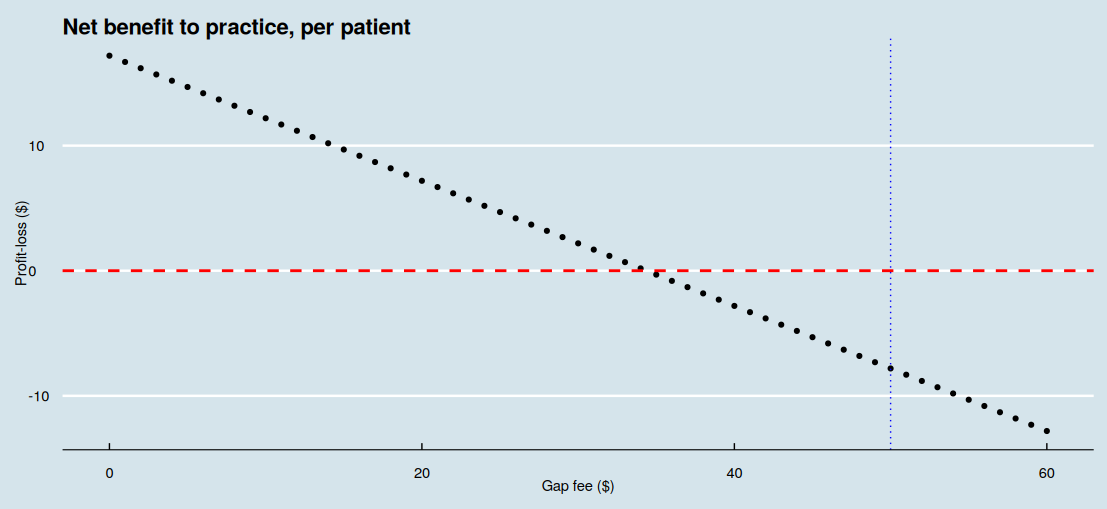
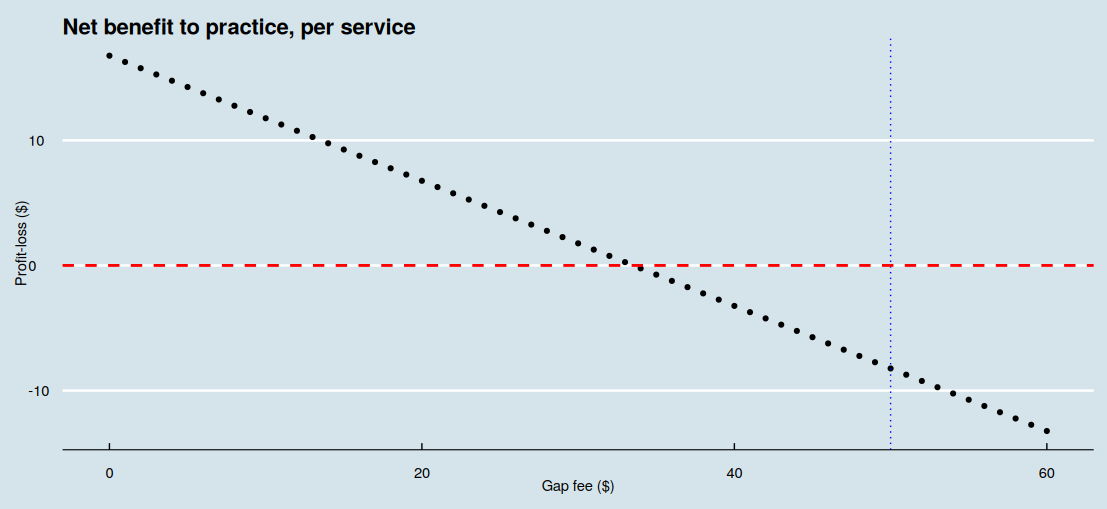
Universal Bulk Billing - new model
completed documentation. move examples to front of description.  improved overall consistency

diff --git a/content/post/UniversalBulkBilling2/index.md b/content/post/UniversalBulkBilling2/index.md
@@ -1,6 +1,9 @@
 ---
-title: Calculating the practice benefit of universal bulk-billing
-date: '2025-02-28'
+title: Calculating the practice benefit of universal bulk-billing - an updated model
+date: '2025-03-03'
+number-sections: true
+toc: true
+slug: UniversalBulkBilling-update
 format: hugo-md
 tags:
   - medicine
@@ -9,7 +12,7 @@ tags:
 engine: knitr
 summary: >-
   Does the proposed universal bulk-billing incentive make financial sense for
-  individual general practices?
+  individual general practices? - an updated model
 webr:
   show-starup-message: true
   cell-options:
@@ -321,7 +324,7 @@ globalThis.qwebrCustomizedWebROptions = {
 };
 
 // Store cell data
-globalThis.qwebrCellDetails = [{"code":"# Service fees for the most common fee-for-service consultation items\n# which attract a bulk-billing incentive\n\n# government-set price for service items B, C, D and E\n# Medicare items 23, 36, 44, and 123\n# in AUD (Australian dollars)\nservice_fees <- c(42.85, 82.90, 122.15, 197.90)\n\n# the proportion which each item is billed\n\n# raw figures are derived for calendar year 2024 Australia-wide\n# http://medicarestatistics.humanservices.gov.au/statistics/mbs_item.jsp\nservice_proportion_raw <- c(81240293, 19899953, 1609147, 174664)\n\n# calculate the proportions\n# for simplicity, assume the same proportions for bulk-billed patients\n# and privately-billed patients\nservice_proportion_bulk <- service_proportion_raw/sum(service_proportion_raw)\nservice_proportion_private <- service_proportion_bulk\n\n# display the proportions\nservice_proportion_bulk","id":1,"options":{"autorun":"false","classes":"","comment":"","context":"interactive","dpi":72,"editor-font-scale":"0.65","editor-max-height":"","editor-quick-suggestions":"false","editor-word-wrap":"true","fig-cap":"","fig-height":5,"fig-width":7,"label":"unnamed-chunk-1","message":"true","out-height":"","out-width":"700px","output":"true","read-only":"false","results":"markup","warning":"true"}},{"code":"# note, please 'run' the previous code block! \n\n# Set the gap fee for the individual service items B, C, D and E\n# for patients who were privately billed\n# for simplicity, set to the same fee of $50\ngap_fee <- c(50, 50, 50, 50)\n\n# the proportion of patients who are charge the gap fee\n# i.e. privately billed\n# set to 50%\nprivately_billed <- 0.5\n\n# the bulk billing incentive, in dollars\n# varies by location\n# Modified Monash areas 1, 2, 3+4, 5, 6, 7\n# items 75870, 75871, 75873, 75874, 75875, 75876\n# see https://www9.health.gov.au/mbs/search.cfm\nindividual_bulk_billing_incentive <-\n  c(21.35, 32.50, 34.50, 36.65, 38.70, 41.10)\n\n# set the Monash area to the city\nmonash_area <- 1\n\n# universal bulk billing incentive\n# over the service fee\n# set to 12.5%\nuniversal_bulk_billing_incentive <- 0.125\n\n# this code block shows no output","id":2,"options":{"autorun":"false","classes":"","comment":"","context":"interactive","dpi":72,"editor-font-scale":"0.65","editor-max-height":"","editor-quick-suggestions":"false","editor-word-wrap":"true","fig-cap":"","fig-height":5,"fig-width":7,"label":"unnamed-chunk-2","message":"true","out-height":"","out-width":"700px","output":"true","read-only":"false","results":"markup","warning":"true"}},{"code":"# note, depends on the previous code blocks already having been 'run'! \n\n# Benefit per 'average' patient charged service item B, C, D or E\n\nnet_benefit <- function(\n  # calculate the average net benefit revenue\n  # to the practice per patient\n  \n  # the variable names used in this function\n  # are the same as used in previous code chunks\n  # but will be 'local' to this function\n  service_fees,\n  service_proportion_bulk,\n  service_proportion_private,\n  gap_fee,\n  privately_billed,\n  individual_bulk_billing_incentive,\n  monash_area,\n  universal_bulk_billing_incentive) {\n  # first calculate the universal bulk-bill incentive\n  # for patients formerly privately-billed\n  privately_billed *\n    sum(service_fees * service_proportion_private) *\n    universal_bulk_billing_incentive +\n    # for patients bulk-billed\n    (1 - privately_billed) *\n    sum(service_fees * service_proportion_bulk) *\n    universal_bulk_billing_incentive +\n    \n    # calculate the individual service bulk-billing incentive applied\n    # to patients formerly privately-billed\n    privately_billed * individual_bulk_billing_incentive[monash_area] -\n    \n    # now calculate the loss\n    privately_billed *\n    sum(gap_fee * service_proportion_private)\n}\n\nprofit_loss <- net_benefit(\n  service_fees,\n  service_proportion_bulk,\n  service_proportion_private,\n  gap_fee,\n  privately_billed,\n  individual_bulk_billing_incentive,\n  monash_area,\n  universal_bulk_billing_incentive\n)\n\n# Show the value of average net_benefit\nformatC(profit_loss, digits = 2, format = \"f\")","id":3,"options":{"autorun":"false","classes":"","comment":"","context":"interactive","dpi":72,"editor-font-scale":"0.65","editor-max-height":"","editor-quick-suggestions":"false","editor-word-wrap":"true","fig-cap":"","fig-height":5,"fig-width":7,"label":"unnamed-chunk-3","message":"true","out-height":"","out-width":"700px","output":"true","read-only":"false","results":"markup","warning":"true"}},{"code":"# note, depends on the previous code blocks already having been 'run'! \n\n# Set the privately-billed proportion to 0.2 (20%), the gap fee to $35\n# and new service proportions\n\nnew_practice_service_raw <- \n  # new B, C, D, E numbers\n  # with much longer average consults\n  c(225, 255, 81, 6)\nnew_practice_service_proportions <- \n  new_practice_service_raw/sum(new_practice_service_raw)\n\nprofit_loss <- net_benefit(\n  service_fees,\n  service_proportion_bulk = new_practice_service_proportions,\n  service_proportion_private = new_practice_service_proportions,\n  # replace the gap fee for every possible service fee\n  # we could also use 'gap_fee = c(35, 35, 35, 35)'\n  gap_fee = rep(35, length(service_fees)),\n  # reduce the privately billed proportion to 20%\n  privately_billed = 0.2,\n  individual_bulk_billing_incentive,\n  monash_area,\n  universal_bulk_billing_incentive\n)\n\n# Show the value of average net_benefit\nformatC(profit_loss, digits = 2, format = \"f\")","id":4,"options":{"autorun":"false","classes":"","comment":"","context":"interactive","dpi":72,"editor-font-scale":"0.65","editor-max-height":"","editor-quick-suggestions":"false","editor-word-wrap":"true","fig-cap":"","fig-height":5,"fig-width":7,"label":"unnamed-chunk-4","message":"true","out-height":"","out-width":"700px","output":"true","read-only":"false","results":"markup","warning":"true"}},{"code":"# note, depends on the previous code blocks already having been 'run'! \n\n# This code chunk requires a few extra code packages\n# It will take a few seconds to make these packages available\ninstall.packages(\"tibble\", quiet = TRUE)\ninstall.packages(\"ggplot2\", quiet = TRUE)\ninstall.packages(\"ggthemes\", quiet = TRUE)\nlibrary(tibble)\nlibrary(ggplot2)\nlibrary(ggthemes)\n\n# gap fees from $0 to $60\ngap_fee_range <- seq(from = 0, to = 60, by = 1)\n\nprofit_loss <- sapply(\n  X = gap_fee_range,\n  function(x) {\n    net_benefit(\n      service_fees,\n      service_proportion_bulk,\n      service_proportion_private,\n      # set the gap fee to 'x'\n      gap_fee = rep(x, length(service_fees)),\n      privately_billed,\n      individual_bulk_billing_incentive,\n      monash_area,\n      universal_bulk_billing_incentive\n    )\n  }\n)\n\ngap_vs_profit <- tibble(\n  gap = gap_fee_range,\n  profit_loss = profit_loss\n)\n\nggplot(\n  data = gap_vs_profit, \n  mapping = aes(x = gap, y = profit_loss)\n  ) +\n  geom_point() +\n  labs(\n    x = \"Gap fee ($)\",\n    y = \"Profit-loss ($)\"\n  ) +\n  ggtitle(\"Net benefit to practice, per patient\") +\n  geom_vline(\n    # our current gap-fee\n    xintercept = gap_fee,\n    linetype = \"dotted\",\n    color = \"blue\"\n  ) +\n  geom_hline(\n    # zero profit-loss line\n    yintercept = 0,\n    linetype = \"dashed\",\n    color = \"red\",\n    linewidth = 1\n  ) +\n  theme_economist()","id":5,"options":{"autorun":"false","classes":"","comment":"","context":"interactive","dpi":72,"editor-font-scale":"0.65","editor-max-height":"","editor-quick-suggestions":"false","editor-word-wrap":"true","fig-cap":"","fig-height":5,"fig-width":7,"label":"unnamed-chunk-5","message":"true","out-height":"","out-width":"700px","output":"true","read-only":"false","results":"markup","warning":"true"}},{"code":"# note, depends on the previous code blocks already having been 'run'! \nlibrary(tibble)\nlibrary(ggplot2)\nlibrary(ggthemes)\n\n# privately billed range from 0 to 100%\nprivately_billed_range <- seq(from = 0, to = 100, by = 1)\n\n# set different service proportions\nnew_practice_service_raw <- \n  # new B, C, D, E numbers\n  # with much longer average consults\n  c(225, 255, 81, 6)\nnew_practice_service_proportions <- \n  new_practice_service_raw/sum(new_practice_service_raw)\n\nprofit_loss <- sapply(\n  X = privately_billed_range,\n  function(x) {\n    net_benefit(\n      service_fees,\n      # set service proportions to longer consults\n      service_proportion_bulk = new_practice_service_proportions,\n      service_proportion_private = new_practice_service_proportions,\n      # set the gap fee to $35\n      gap_fee = 35,\n      # set privately billed proportion to 'x'\n      # divide by 100 to convert from\n      # percentage to proportion\n      privately_billed = x/100,\n      individual_bulk_billing_incentive,\n      monash_area,\n      universal_bulk_billing_incentive\n    )\n  }\n)\n\ngap_vs_profit <- tibble(\n  gap = privately_billed_range,\n  profit_loss = profit_loss\n)\n\nggplot(\n  data = gap_vs_profit, \n  mapping = aes(x = gap, y = profit_loss)\n  ) +\n  geom_point() +\n  labs(\n    x = \"Privately-billed proportion (%)\",\n    y = \"Profit-loss ($)\"\n  ) +\n  ggtitle(\"Net benefit to practice, per patient\") +\n  geom_vline(\n    # our current proportion\n    xintercept = 20,\n    linetype = \"dotted\",\n    color = \"blue\"\n  ) +\n  geom_hline(\n    # zero profit-loss line\n    yintercept = 0,\n    linetype = \"dashed\",\n    color = \"red\",\n    linewidth = 1\n  ) +\n  theme_economist()","id":6,"options":{"autorun":"false","classes":"","comment":"","context":"interactive","dpi":72,"editor-font-scale":"0.65","editor-max-height":"","editor-quick-suggestions":"false","editor-word-wrap":"true","fig-cap":"","fig-height":5,"fig-width":7,"label":"unnamed-chunk-6","message":"true","out-height":"","out-width":"700px","output":"true","read-only":"false","results":"markup","warning":"true"}},{"code":"library(tibble)\n\n# just include service items B, C and D\nshort_service_list <- service_fees[1:3]\n\nnew_payments <- \n  tibble(\n    Current = num(\n      short_service_list,\n      digits = 2\n    ),\n    Metro = num(\n      short_service_list*(1+universal_bulk_billing_incentive)+\n        individual_bulk_billing_incentive[1],\n      digits = 2\n    ),\n    Regional = num(\n      short_service_list*(1+universal_bulk_billing_incentive)+\n        individual_bulk_billing_incentive[2],\n      digits = 2\n    ),\n    `Large Rural` = num(\n      short_service_list*(1+universal_bulk_billing_incentive)+\n        individual_bulk_billing_incentive[3],\n      digits = 2\n    ),\n    `Small Rural` = num(\n      short_service_list*(1+universal_bulk_billing_incentive)+\n        individual_bulk_billing_incentive[4],\n      digits = 2\n    ),\n    Remote = num(\n      short_service_list*(1+universal_bulk_billing_incentive)+\n        individual_bulk_billing_incentive[5],\n      digits = 2\n    ),\n  )\n\nnew_payments","id":7,"options":{"autorun":"false","classes":"","comment":"","context":"interactive","dpi":72,"editor-font-scale":"0.65","editor-max-height":"","editor-quick-suggestions":"false","editor-word-wrap":"true","fig-cap":"","fig-height":5,"fig-width":7,"label":"unnamed-chunk-7","message":"true","out-height":"","out-width":"700px","output":"true","read-only":"false","results":"markup","warning":"true"}}];
+globalThis.qwebrCellDetails = [{"code":"# Service fees for the most common fee-for-service consultation items\n# which attract a bulk-billing incentive\n\n# government-set price for service items A, B, C, D and E\n# Medicare items 3, 23, 36, 44, and 123\n# in AUD (Australian dollars)\nfee_names <- c(\"a\", \"b\", \"c\", \"d\", \"e\")\nservice_fees <- array(\n  data = c(19.6, 42.85, 82.90, 122.15, 197.9),\n  dim = c(length(fee_names), 1),\n  dimnames = list(fee_names, \"fee\")\n)\n\n# the proportion which each item is billed\n\n# raw figures are derived for calendar year 2024 Australia-wide\n# http://medicarestatistics.humanservices.gov.au/statistics/mbs_item.jsp\nservice_proportion_raw <- array(\n  data = c(4037130, 81240293, 19899953, 1609147, 174664),\n  dim = c(length(fee_names), 1),\n  dimnames = list(fee_names, \"n\")\n)\n\n# calculate the proportions\n# for simplicity, assume the same proportions for bulk-billed patients\n# and privately-billed patients\nservice_proportion_bulk <- service_proportion_raw/sum(service_proportion_raw)\ncolnames(service_proportion_bulk) <- c(\"proportion\")\nservice_proportion_private <- service_proportion_bulk\n\n# display the proportions\nservice_proportion_bulk","id":1,"options":{"autorun":"false","classes":"","comment":"","context":"interactive","dpi":72,"editor-font-scale":"0.65","editor-max-height":"","editor-quick-suggestions":"false","editor-word-wrap":"true","fig-cap":"","fig-height":5,"fig-width":7,"label":"unnamed-chunk-1","message":"true","out-height":"","out-width":"700px","output":"true","read-only":"false","results":"markup","warning":"true"}},{"code":"# note, please 'run' the previous code block! \n\n# Set the gap fee for the individual service items A, B, C, D and E\n# for patients who were privately billed\n# for simplicity, set to the same fee of $50\ngap_fee <- array(\n  data = rep(50, length(fee_names)),\n  dim = c(length(fee_names), 1),\n  dimnames = list(fee_names, \"gap\")\n)\n\n# the proportion of patients who are charge the gap fee\n# i.e. privately billed\n# set to 50%\nprivately_billed <-  0.5\n\n# the bulk billing incentive, in dollars\n# varies by location\n# Modified Monash areas 1, 2, 3+4, 5, 6, 7\n# we will index the above to 1, 2, 3, 4, 5 and 6 (merging areas 3+4)\n\n# see https://www9.health.gov.au/mbs/search.cfm\nn_monash <- 6 # six different Monash areas\n\nindividual_bulkbill_incentive <- array(\n  # there are two different individual bulk-billing incentive fees,\n  # 'standard' and 'triple'\n  data = c(\n    # standard bulk-billing incentive applies to service items like item A/'3'\n    # items 10990, 10991, 75855, 75856, 75857, 75858\n    c(7.15, 10.80, 11.45, 12.20, 12.85, 13.70),\n    # triple bulk-billing incentive applies to service items like item B, C and D\n    # items 75870, 75871, 75873, 75874, 75875, 75876\n    c(21.35, 32.50, 34.50, 36.65, 38.70, 41.10)\n  ),\n  dim = c(n_monash, 2),\n  dimnames = list(c(\"1\", \"2\", \"3+4\", \"5\", \"6\", \"7\"), c(\"single\", \"triple\"))\n)\n\n# does the single- or triple- incentive apply to the fee item?\nindividual_bulkbill_incentive_by_fee <- \n  c(\"single\", \"triple\", \"triple\", \"triple\", \"triple\")\n\n# set the Monash area to the city\nmonash_area <- \"1\"\n\n# universal bulk billing incentive\n# over the service fee\n# set to 12.5%\nuniversal_bulkbill_incentive <- 0.125\n\n# show individual bulk-bill incentive applicable to defined Monash area\nfee_bulkbill_incentive <- individual_bulkbill_incentive[monash_area, individual_bulkbill_incentive_by_fee]\n# redefine dimensions of the array\ndim(fee_bulkbill_incentive) <- c(length(fee_names), 1)\n# change rownames to the fee names\nrownames(fee_bulkbill_incentive) <- fee_names\nfee_bulkbill_incentive","id":2,"options":{"autorun":"false","classes":"","comment":"","context":"interactive","dpi":72,"editor-font-scale":"0.65","editor-max-height":"","editor-quick-suggestions":"false","editor-word-wrap":"true","fig-cap":"","fig-height":5,"fig-width":7,"label":"unnamed-chunk-2","message":"true","out-height":"","out-width":"700px","output":"true","read-only":"false","results":"markup","warning":"true"}},{"code":"# note, depends on the previous code blocks already having been 'run'! \n\n# Benefit per 'average' patient charged service item A, B, C, D or E\n\nnet_benefit <- function(\n  # calculate the average net benefit revenue\n  # to the practice per patient\n  \n  # the variable names used in this function\n  # are the same as used in previous code chunks\n  # but will be 'local' to this function\n  service_fees,\n  fee_names,\n  service_proportion_bulk,\n  service_proportion_private,\n  gap_fee,\n  privately_billed,\n  individual_bulkbill_incentive,\n  individual_bulkbill_incentive_by_fee,\n  monash_area,\n  universal_bulkbill_incentive) {\n  # calculate individual bulk-bill incentive applicable to defined Monash area\n  fee_bulkbill_incentive <- individual_bulkbill_incentive[monash_area, individual_bulkbill_incentive_by_fee]\n  # re-define dimensions of the 'x' array\n  dim(fee_bulkbill_incentive) <- c(length(fee_names), 1)\n  # change row name to the fee names\n  rownames(fee_bulkbill_incentive) <- fee_names\n  \n  # calculate the universal bulk-bill incentive\n  # for patients formerly privately-billed\n  privately_billed *\n    sum(service_fees * service_proportion_private) *\n    universal_bulkbill_incentive +\n    # calculate (and add) benefit for patients already bulk-billed\n    (1 - privately_billed) *\n    sum(service_fees * service_proportion_bulk) *\n    universal_bulkbill_incentive +\n    \n    # calculate (and add) the individual service bulk-billing incentive applied\n    # to patients formerly privately-billed\n    privately_billed * sum(service_proportion_private * fee_bulkbill_incentive) -\n    \n    # calculate (and subtract) the loss from not charging a private 'gap' fee\n    privately_billed * sum(service_proportion_private * gap_fee)\n}\n\nprofit_loss <- net_benefit(\n  service_fees,\n  fee_names,\n  service_proportion_bulk,\n  service_proportion_private,\n  gap_fee,\n  privately_billed,\n  individual_bulkbill_incentive,\n  individual_bulkbill_incentive_by_fee,\n  monash_area,\n  universal_bulkbill_incentive\n)\n\n# Show the value of average net_benefit\nformatC(profit_loss, digits = 2, format = \"f\")","id":3,"options":{"autorun":"false","classes":"","comment":"","context":"interactive","dpi":72,"editor-font-scale":"0.65","editor-max-height":"","editor-quick-suggestions":"false","editor-word-wrap":"true","fig-cap":"","fig-height":5,"fig-width":7,"label":"unnamed-chunk-3","message":"true","out-height":"","out-width":"700px","output":"true","read-only":"false","results":"markup","warning":"true"}},{"code":"# note, depends on the previous code blocks already having been 'run'! \n\n# Set the privately-billed proportion to 0.2 (20%), the gap fee to $35\n# and new service proportions\n\nnew_practice_service_raw <- \n  # new A, B, C, D, E numbers\n  # with much longer average consults\n  #  the consult time is progressively longer from A->B->C->D->E\n  c(950, 3956, 4171, 1146, 75)\nnew_practice_service_proportions <- \n  new_practice_service_raw/sum(new_practice_service_raw)\n\nprofit_loss <- net_benefit(\n  service_fees,\n  fee_names,\n  service_proportion_bulk = new_practice_service_proportions,\n  service_proportion_private = new_practice_service_proportions,\n  # replace the gap fee for every possible service fee\n  # we could also use 'gap_fee = c(35, 35, 35, 35)'\n  gap_fee = rep(35, length(fee_names)),\n  # reduce the privately billed proportion to 20%\n  privately_billed = 0.2,\n  individual_bulkbill_incentive,\n  individual_bulkbill_incentive_by_fee,\n  monash_area,\n  universal_bulkbill_incentive\n)\n\n# Show the value of average net_benefit\nformatC(profit_loss, digits = 2, format = \"f\")","id":4,"options":{"autorun":"false","classes":"","comment":"","context":"interactive","dpi":72,"editor-font-scale":"0.65","editor-max-height":"","editor-quick-suggestions":"false","editor-word-wrap":"true","fig-cap":"","fig-height":5,"fig-width":7,"label":"unnamed-chunk-4","message":"true","out-height":"","out-width":"700px","output":"true","read-only":"false","results":"markup","warning":"true"}},{"code":"# note, depends on the previous code blocks already having been 'run'! \n\n# this model is based on the second practice model described above\n# add new service fee descriptions\nnew_fee_names <- c(\n  fee_names,\n  # append items 721, 723 and 732\n  c(\"GPMP\", \"TCA\", \"CDM RV\")\n)\nnew_service_fees <- array(\n  # append fees for 721, 723 and 732\n  data = c(service_fees, 164.35, 130.25, 82.10),\n  dim = c(length(new_fee_names), 1),\n  dimnames = list(new_fee_names, \"fee\")\n)\nnew_gap_fee <- c(\n  rep(35, 5),\n  # no gap fees were charged for thes GPMP/TCA/GPMPRV items,\n  # even 'private' patients\n  rep(0, 3)\n)\nnew_individual_bulkbill_incentive_by_fee <- c(\n  individual_bulkbill_incentive_by_fee,\n  rep(\"single\", 3)\n)\n# Set the privately-billed proportion to 0.2 (20%), the gap fee to $35\n# and new service proportions\nnew_practice_service_raw <- \n  # new A, B, C, D, E numbers\n  # (long average consults)\n  # and GPMP/TCA/reviews\n  c(950, 3956, 4171, 1146, 75, 416, 402, 255)\nnew_practice_service_proportions <- \n  new_practice_service_raw/sum(new_practice_service_raw)\n\nprofit_loss <- net_benefit(\n  service_fees = new_service_fees,\n  fee_names = new_fee_names,\n  service_proportion_bulk = new_practice_service_proportions,\n  service_proportion_private = new_practice_service_proportions,\n  # replace the gap fee for every possible service fee\n  # we could also use 'gap_fee = c(35, 35, 35, 35)'\n  gap_fee = new_gap_fee,\n  # reduce the privately billed proportion to 20%\n  privately_billed = 0.2,\n  individual_bulkbill_incentive,\n  individual_bulkbill_incentive_by_fee = new_individual_bulkbill_incentive_by_fee,\n  monash_area,\n  universal_bulkbill_incentive\n)\n\n# Show the value of average net_benefit\nformatC(profit_loss, digits = 2, format = \"f\")","id":5,"options":{"autorun":"false","classes":"","comment":"","context":"interactive","dpi":72,"editor-font-scale":"0.65","editor-max-height":"","editor-quick-suggestions":"false","editor-word-wrap":"true","fig-cap":"","fig-height":5,"fig-width":7,"label":"unnamed-chunk-5","message":"true","out-height":"","out-width":"700px","output":"true","read-only":"false","results":"markup","warning":"true"}},{"code":"# note, depends on the previous code blocks already having been 'run'! \n\n# This code chunk requires a few extra code packages\n# It will take a few seconds to make these packages available\ninstall.packages(\"tibble\", quiet = TRUE)\ninstall.packages(\"ggplot2\", quiet = TRUE)\ninstall.packages(\"ggthemes\", quiet = TRUE)\nlibrary(tibble)\nlibrary(ggplot2)\nlibrary(ggthemes)\n\n# gap fees from $0 to $60\ngap_fee_range <- seq(from = 0, to = 60, by = 1)\n\nprofit_loss <- sapply(\n  X = gap_fee_range,\n  function(x) {\n    net_benefit(\n      service_fees,\n      fee_names,\n      service_proportion_bulk,\n      service_proportion_private,\n      # set the gap fee to 'x'\n      gap_fee = rep(x, length(fee_names)),\n      privately_billed,\n      individual_bulkbill_incentive,\n      individual_bulkbill_incentive_by_fee,\n      monash_area,\n      universal_bulkbill_incentive\n    )\n  }\n)\n\ngap_vs_profit <- tibble(\n  gap = gap_fee_range,\n  profit_loss = profit_loss\n)\n\nggplot(\n  data = gap_vs_profit, \n  mapping = aes(x = gap, y = profit_loss)\n  ) +\n  geom_point() +\n  labs(\n    x = \"Gap fee ($)\",\n    y = \"Profit-loss ($)\"\n  ) +\n  ggtitle(\"Net benefit to practice, per service\") +\n  geom_vline(\n    # our current gap-fee\n    xintercept = gap_fee,\n    linetype = \"dotted\",\n    color = \"blue\"\n  ) +\n  geom_hline(\n    # zero profit-loss line\n    yintercept = 0,\n    linetype = \"dashed\",\n    color = \"red\",\n    linewidth = 1\n  ) +\n  theme_economist()","id":6,"options":{"autorun":"false","classes":"","comment":"","context":"interactive","dpi":72,"editor-font-scale":"0.65","editor-max-height":"","editor-quick-suggestions":"false","editor-word-wrap":"true","fig-cap":"","fig-height":5,"fig-width":7,"label":"unnamed-chunk-6","message":"true","out-height":"","out-width":"700px","output":"true","read-only":"false","results":"markup","warning":"true"}},{"code":"# note, depends on the previous code blocks already having been 'run'! \nlibrary(tibble)\nlibrary(ggplot2)\nlibrary(ggthemes)\n\n# privately billed range from 0 to 100%\nprivately_billed_range <- seq(from = 0, to = 100, by = 1)\n\n# this model is based on the second practice model described above\n# together with care plan item numbers\n# add new service fee descriptions\nnew_fee_names <- c(\n  fee_names,\n  # append items 721, 723 and 732\n  c(\"GPMP\", \"TCA\", \"CDM RV\")\n)\nnew_service_fees <- array(\n  # append fees for 721, 723 and 732\n  data = c(service_fees, 164.35, 130.25, 82.10),\n  dim = c(length(new_fee_names), 1),\n  dimnames = list(new_fee_names, \"fee\")\n)\nnew_gap_fee <- c(\n  rep(35, 5),\n  # no gap fees were charged for thes GPMP/TCA/GPMPRV items,\n  # even 'private' patients\n  rep(0, 3)\n)\nnew_individual_bulkbill_incentive_by_fee <- c(\n  individual_bulkbill_incentive_by_fee,\n  rep(\"single\", 3)\n)\n# Set the privately-billed proportion to 0.2 (20%), the gap fee to $35\n# and new service proportions\nnew_practice_service_raw <- \n  # new A, B, C, D, E numbers\n  # (long average consults)\n  # and GPMP/TCA/reviews\n  c(950, 3956, 4171, 1146, 75, 416, 402, 255)\nnew_practice_service_proportions <- \n  new_practice_service_raw/sum(new_practice_service_raw)\n\nprofit_loss <- sapply(\n  X = privately_billed_range,\n  function(x) {\n    net_benefit(\n      service_fees = new_service_fees,\n      fee_names = new_fee_names,\n      # set service proportions to longer consults\n      service_proportion_bulk = new_practice_service_proportions,\n      service_proportion_private = new_practice_service_proportions,\n      # set the gap fee to $35\n      gap_fee = new_gap_fee,\n      # set privately billed proportion to 'x'\n      # divide by 100 to convert from\n      # percentage to proportion\n      privately_billed = x/100,\n      individual_bulkbill_incentive,\n      individual_bulkbill_incentive_by_fee = new_individual_bulkbill_incentive_by_fee,\n      monash_area,\n      universal_bulkbill_incentive\n    )\n  }\n)\n\ngap_vs_profit <- tibble(\n  gap = privately_billed_range,\n  profit_loss = profit_loss\n)\n\nggplot(\n  data = gap_vs_profit, \n  mapping = aes(x = gap, y = profit_loss)\n  ) +\n  geom_point() +\n  labs(\n    x = \"Privately-billed proportion (%)\",\n    y = \"Profit-loss ($)\"\n  ) +\n  ggtitle(\"Net benefit to practice, per service\") +\n  geom_vline(\n    # our current proportion\n    xintercept = 20,\n    linetype = \"dotted\",\n    color = \"blue\"\n  ) +\n  geom_hline(\n    # zero profit-loss line\n    yintercept = 0,\n    linetype = \"dashed\",\n    color = \"red\",\n    linewidth = 1\n  ) +\n  theme_economist()","id":7,"options":{"autorun":"false","classes":"","comment":"","context":"interactive","dpi":72,"editor-font-scale":"0.65","editor-max-height":"","editor-quick-suggestions":"false","editor-word-wrap":"true","fig-cap":"","fig-height":5,"fig-width":7,"label":"unnamed-chunk-7","message":"true","out-height":"","out-width":"700px","output":"true","read-only":"false","results":"markup","warning":"true"}},{"code":"library(tibble)\n\n# just include service items B, C and D\nshort_service_list <- service_fees[c(\"b\", \"c\", \"d\"),]\n\nnew_payments <- \n  tibble(\n    Current = num(\n      short_service_list,\n      digits = 2\n    ),\n    Metro = num(\n      short_service_list*(1+universal_bulkbill_incentive)+\n        individual_bulkbill_incentive[1, 2],\n      digits = 2\n    ),\n    Regional = num(\n      short_service_list*(1+universal_bulkbill_incentive)+\n        individual_bulkbill_incentive[2, 2],\n      digits = 2\n    ),\n    `Large Rural` = num(\n      short_service_list*(1+universal_bulkbill_incentive)+\n        individual_bulkbill_incentive[3, 2],\n      digits = 2\n    ),\n    `Small Rural` = num(\n      short_service_list*(1+universal_bulkbill_incentive)+\n        individual_bulkbill_incentive[4, 2],\n      digits = 2\n    ),\n    Remote = num(\n      short_service_list*(1+universal_bulkbill_incentive)+\n        individual_bulkbill_incentive[5, 2],\n      digits = 2\n    ),\n  )\n\nnew_payments","id":8,"options":{"autorun":"false","classes":"","comment":"","context":"interactive","dpi":72,"editor-font-scale":"0.65","editor-max-height":"","editor-quick-suggestions":"false","editor-word-wrap":"true","fig-cap":"","fig-height":5,"fig-width":7,"label":"unnamed-chunk-8","message":"true","out-height":"","out-width":"700px","output":"true","read-only":"false","results":"markup","warning":"true"}}];
 
 </script>
 
@@ -1867,6 +1870,20 @@ globalThis.qwebrCreateMonacoEditorInstance = function (cellData) {
 }
 </script>
 
+-   [<span class="toc-section-number">1</span> Universal bulk-billing incentive](#universal-bulk-billing-incentive)
+-   [<span class="toc-section-number">2</span> Will the proposed universal bulk-billing incentives be financially worthwhile for general practices?](#will-the-proposed-universal-bulk-billing-incentives-be-financially-worthwhile-for-general-practices)
+    -   [<span class="toc-section-number">2.1</span> Practice 1, limited item number inclusion](#practice-1-limited-item-number-inclusion)
+    -   [<span class="toc-section-number">2.2</span> Practice 2, low gap-fee, care-plan item numbers included](#practice-2-low-gap-fee-care-plan-item-numbers-included)
+-   [<span class="toc-section-number">3</span> Modelling the benefits to individual practices](#modelling-the-benefits-to-individual-practices)
+    -   [<span class="toc-section-number">3.1</span> Services](#services)
+    -   [<span class="toc-section-number">3.2</span> Gap fees and bulk-billing incentive](#gap-fees-and-bulk-billing-incentive)
+    -   [<span class="toc-section-number">3.3</span> Calculating the benefit](#calculating-the-benefit)
+    -   [<span class="toc-section-number">3.4</span> Graphing the benefit](#graphing-the-benefit)
+    -   [<span class="toc-section-number">3.5</span> Reproducing the universal bulk-billing fact sheet table](#reproducing-the-universal-bulk-billing-fact-sheet-table)
+    -   [<span class="toc-section-number">3.6</span> Technical credits](#technical-credits)
+
+*Updated from [Calculating the practice benefit of universal bulk-billing](../UniversalBulkBilling). Updated model includes MBS Service Level A and, optionally, care plans (721/723/732)*
+
 ## Universal bulk-billing incentive
 
 As part of an election promise, the Australian Government as of February 2025 released a [proposal](https://www.health.gov.au/ministers/the-hon-mark-butler-mp/media/strengthening-medicare-more-bulk-billing-more-doctors-more-nurses) to increase the incentives for private general practices (sometimes known as 'family medicine' or 'primary care' practices) to *bulk-bill* patients. 'Bulk-billing' essentially allows a patient consultation with medical clinician to be 'free' (no out-of-pocket expense), if-and-only-if the clinician agrees to charge the patient no more than the government-set insurance price for the consultation.
@@ -1879,22 +1896,42 @@ The proposal to encourage general practices to 'bulk-bill' consisted of two part
     -   Previously the bulk-billing incentive payment for individual consultations was only available to people, usually with less income or assets, who are [pensioners, recipients of a government-issued 'concession card' and children under the age of 16](https://www.ama.com.au/tas/bulk-billing-incentive-facts).
     -   This bulk-billing incentive is paid with each individual consult
 -   If the general practice agrees to bulk-bill all patients, i.e. universal bulk-billing, the government will pay the practice an additional 12.5% over and above the government-set price for each fee-for-service item.
-    -   The definition of which service items need to be 'bulk-billed', and which service items will attract the 15% bonus is not yet fully defined. The government-provided [fact sheet](https://mcusercontent.com/8a3d58d1cfb663c4dcefbc00d/files/bd321db2-d98f-0c87-efb9-1456a6053389/More_bulk_billing_fact_sheet.pdf) suggests that at least consultation items B/C/D and mental health care plans items will attract the 12.5% bonus.
-    -   The 12.% bonus is paid quarterly, together with the current quarterly practice incentive program (PIP) payments.
+    -   The definition of which service items need to be 'bulk-billed', and which service items will attract the 15% bonus is not yet fully defined. The government-provided [fact sheet](https://mcusercontent.com/8a3d58d1cfb663c4dcefbc00d/files/bd321db2-d98f-0c87-efb9-1456a6053389/More_bulk_billing_fact_sheet.pdf) and [RACGP FAQ](https://www.racgp.org.au/advocacy/advocacy-resources/medicare-announcement-member-faqs) suggests that consultation items A/B/C/D, mental health care plan and other GP non-referred attendances will attract the 12.5% bonus.
+    -   The 12.5% bonus is paid quarterly, together with the current quarterly practice incentive program (PIP) payments.
 
 ## Will the proposed universal bulk-billing incentives be financially worthwhile for general practices?
 
 The government has released [case examples](https://www.health.gov.au/sites/default/files/2025-02/strengthening-medicare-with-more-bulk-billing.pdf) of practices which would all financially benefit from the universal bulk-billing incentives proposal. [Not all real general practices have considered the incentives proposed to be attractive](https://www.medicalrepublic.com.au/tell-dohac-theyre-dreaming-re-bulk-billing-calculations-estimates/114770), however. The [benefit to real practices may be more nuanced](https://www.medicalrepublic.com.au/how-the-new-bulk-billing-offer-is-okay-bad-and-ugly/114856), depending on current private billing levels and current fees charged over the government-set price.
 
+This model demonstrates the effect of pre-existing gap-fees, the proportion of patients which would normally be privately-billed and the inclusion of different non-referred general practice service items into the estimated profitability of adopting the proposed bulk-bill incentive program.
+
+Two examples are presented, followed by detailed description of the model and model variations.
+
+### Practice 1, limited item number inclusion
+
+The first example practice privately-bills 50% of its patients. The profit-loss calculation is based on just a few item numbers ('A', 'B', 'C', 'D' and 'E'). The graph below demonstrates the effect on net-profitability of adopting the bulk-billing incentives, depending on the private 'gap-fee' charged by the practice prior to adopting the bulk-billing incentives. The light-blue vertical dotted line represents the net-profitability (-8.23 per service) if the practice charged an average gap-fee of \$50.
+
+![](images/profit_gap.png)
+
+### Practice 2, low gap-fee, care-plan item numbers included
+
+The first example practice charges a low private gap-fee of \$35. The profit-loss calculation is based on both standard numbers ('A', 'B', 'C', 'D' and 'E') and care-plan item numbers. This practice did not charge a gap-fee for care-plan item numbers, even for 'private' patients. The graph below demonstrates the effect on net-profitability of the adopting the bulk-billing incentives, depending on the pre-existing proportion of patients who were charged privately before adopting the bulk-billing incentives.
+
+The light-blue vertical dotted line represents the net-profitability (6.55 per service) if only 20% of the practice population was privately-billed.
+
+![](images/profit_private_proportion.png)
+
+Following sections will describe how the models were created.
+
 ## Modelling the benefits to individual practices
 
-A model will be demonstrated which aims to show the potential financial benefit (or loss) of taking up the universal bulk-billing proposal.
+This model demonstrates the potential financial benefit (or loss) of taking up the universal bulk-billing proposal.
 
 The proposition to test is:
 
 $$
 \small
-\text{Benefit} > \text{Loss}
+\text{Benefit} \ge \text{Loss}
 $$
 Where *Benefit* is the benefit from universal bulk-billing and *Loss* is the revenue foregone from not charging a fee over and above the government-set price for the services.
 
@@ -1932,14 +1969,14 @@ If the practice agrees to universal bulk-billing, then all services which were p
 
 *All the 'code' below is fully modifiable, and can be changed to reflect individual practice circumstances! If you wish to 'run' the code, it is recommended that you 'run' the code blocks sequentially, from top to bottom. After you have 'run' a code block, you can modify the code and 'run' it again without running the previous code blocks.*
 
-*If you 'Run Code' the code block below, a list of numbers in red will appear below the code block, showing the proportion of patients billed Medicare service items B, C, D and E.*
+*If you 'Run Code' the code block below, a list of numbers in red will appear below the code block, showing the proportion of patients billed Medicare service items A, B, C, D and E.*
 
 <div id="qwebr-insertion-location-1"></div>
 <noscript>Please enable JavaScript to experience the dynamic code cell content on this page.</noscript>
 
-A limitation of this model is that full details are not known regarding which service items are required to be bulk-billed under the proposal, and which services items will attract the universal bulk-billing incentive.
+A limitation of this model is that explicit details are not known regarding which service items are required to be bulk-billed under the proposal, and which services items will attract the universal bulk-billing incentive.
 
-Released documents show that some standard fee-for-service items, particularly items 'B', 'C' and 'D', will attract both bulk-billing incentives (individual service and universal bulk-billing incentive) and are likely to be required to be bulk-billed under the universal bulk-billing agreement. These are the most common service items to be charged in Australian general practice, and contribute the vast majority of practice revenue. Item 'A', for consultations lasting less than five minutes, is also a common and standard fee-for-service item, but does not currently attract the individual high value 'triple' bulk-billing incentive for pensioners and healthcare-card holders etc., and is perhaps unlikely to attract that incentive in the future.
+Released documents show that standard fee-for-service items, particularly items 'A', 'B', 'C' and 'D', will attract both bulk-billing incentives (individual service and universal bulk-billing incentive) and are required to be bulk-billed under the universal bulk-billing agreement. These are the most common service items to be charged in Australian general practice, and contribute the vast majority of practice revenue. There are other service item numbers, such as care-plan related service items ('GPMP/721', 'TCA/723' and 'GPMP RV/732'), which contribute significantly to the practice income of many practices. Care-plan item numbers will be added to an [example model described later]({{< ref "#including-care-plan-item-numbers" >}}).
 
 ### Gap fees and bulk-billing incentive
 
@@ -1954,17 +1991,32 @@ The government bulk-billing incentive for individual services [varies by the loc
 
 We can now calculate the average benefit per patient if the practice adopts universal bulk-billing.
 
+If you 'Run Code' the block below With the default settings of 50% of patients privately-billed and a gap fee of 50, the profit-per-patient is shown as `-8.23`, i.e. a loss of 8.23.
+
 **Note that 'Run Code' below will not work unless the previous code blocks have already been 'Run'!!**
 
 <div id="qwebr-insertion-location-3"></div>
 <noscript>Please enable JavaScript to experience the dynamic code cell content on this page.</noscript>
 
-With the default settings of 50% of patients privately-billed and a gap fee of 50, the average loss-per-patient is 7.81. However, what happens if we change some of the parameters?
+#### Modifying the model for a different practice
+
+What happens if we change some of the parameters? In this example, only 20% of services were privately-billed, the gap-fee for each privately-billed service item is \$35 and the service items charged is biased towards the longer consult items.
 
 <div id="qwebr-insertion-location-4"></div>
 <noscript>Please enable JavaScript to experience the dynamic code cell content on this page.</noscript>
 
-If the gap fee is set to 35, the average consult length is longer and only 20% of patients are privately-billed, the practice can expect an average gain of +6.50 for each patient seen.
+If the gap fee is set to 35, the average consult length is longer and only 20% of patients are privately-billed, the practice can expect an average profit of `5.37` per service.
+
+#### Including care plan item numbers
+
+The [RACGP FAQ](https://www.racgp.org.au/advocacy/advocacy-resources/medicare-announcement-member-faqs) suggests that non-referred general practice service items such as care-plans and health assessments will also qualify for the new bulk-bill incentive payments. We can add these service items to our model. We will base this model on the [second practice model]({{< ref "#modifying-the-model-for-a-different-practice" >}}).
+
+*Model limitation - It is expected that the service item numbers and descriptors for general practice care-plans (721, 723 and 732) will change late in 2025. This model assumes that the fee-for-service revenue for the practice through care-plans will remain similar after the change in care-plan services items occurs.*
+
+Compared to the [second practice model]({{< ref "#modifying-the-model-for-a-different-practice" >}}) described above, adding care plan item numbers increases the average profit from `5.37` to `6.55` per service.
+
+<div id="qwebr-insertion-location-5"></div>
+<noscript>Please enable JavaScript to experience the dynamic code cell content on this page.</noscript>
 
 ### Graphing the benefit
 
@@ -1972,7 +2024,7 @@ If the gap fee is set to 35, the average consult length is longer and only 20% o
 
 We can look at the effect on profit-loss by looking at a range of different gap fees. This graph is based on the first, original, example.
 
-<div id="qwebr-insertion-location-5"></div>
+<div id="qwebr-insertion-location-6"></div>
 <noscript>Please enable JavaScript to experience the dynamic code cell content on this page.</noscript>
 
 The above code chunk creates a plot like this, with a dashed red line at 'zero' profit and a dotted blue line representing the current gap fee:
@@ -1983,14 +2035,16 @@ The above code chunk creates a plot like this, with a dashed red line at 'zero' 
 
 Likewise, we can examine the effect on net benefit through a range of different proportion of patients being privately billed prior to adopting universal bulk-billing. This graph is based on the second example.
 
-<div id="qwebr-insertion-location-6"></div>
+<div id="qwebr-insertion-location-7"></div>
 <noscript>Please enable JavaScript to experience the dynamic code cell content on this page.</noscript>
 
 The above code block will produce a graph as below.
 
 ![](images/profit_private_proportion.png)
 
-### Supplement - reproducing the universal bulk-billing fact sheet table
+### Reproducing the universal bulk-billing fact sheet table
+
+(Supplement)
 
 We can reproduce part of the table shown in the [government-provided fact sheet](https://mcusercontent.com/8a3d58d1cfb663c4dcefbc00d/files/bd321db2-d98f-0c87-efb9-1456a6053389/More_bulk_billing_fact_sheet.pdf) representing the total payments received (both individual bulk-billing incentive and universal bulk-billing incentive) for each service for those practices which agree to universally bulk-bill. The original table is shown below:
 
@@ -1998,7 +2052,7 @@ We can reproduce part of the table shown in the [government-provided fact sheet]
 
 **Note that 'Run Code' below will not work unless the previous code blocks have already been 'Run'!!**
 
-<div id="qwebr-insertion-location-7"></div>
+<div id="qwebr-insertion-location-8"></div>
 <noscript>Please enable JavaScript to experience the dynamic code cell content on this page.</noscript>
 
 The above code block output is shown below, matching the table in the [fact sheet](https://mcusercontent.com/8a3d58d1cfb663c4dcefbc00d/files/bd321db2-d98f-0c87-efb9-1456a6053389/More_bulk_billing_fact_sheet.pdf).

diff --git a/content/post/UniversalBulkBilling/index.md b/content/post/UniversalBulkBilling/index.md
@@ -1867,6 +1867,8 @@ globalThis.qwebrCreateMonacoEditorInstance = function (cellData) {
 }
 </script>
 
+*This document has now been updated, please refer to [Calculating the practice benefit of universal bulk-billing - an updated model](../universalbulkbilling-update). Updated model includes MBS Service Level A and, optionally, care plans (721/723/732)*
+
 ## Universal bulk-billing incentive
 
 As part of an election promise, the Australian Government as of February 2025 released a [proposal](https://www.health.gov.au/ministers/the-hon-mark-butler-mp/media/strengthening-medicare-more-bulk-billing-more-doctors-more-nurses) to increase the incentives for private general practices (sometimes known as 'family medicine' or 'primary care' practices) to *bulk-bill* patients. 'Bulk-billing' essentially allows a patient consultation with medical clinician to be 'free' (no out-of-pocket expense), if-and-only-if the clinician agrees to charge the patient no more than the government-set insurance price for the consultation.
@@ -1990,7 +1992,9 @@ The above code block will produce a graph as below.
 
 ![](images/profit_private_proportion.png)
 
-### Supplement - reproducing the universal bulk-billing fact sheet table
+### Reproducing the universal bulk-billing fact sheet table
+
+(Supplement)
 
 We can reproduce part of the table shown in the [government-provided fact sheet](https://mcusercontent.com/8a3d58d1cfb663c4dcefbc00d/files/bd321db2-d98f-0c87-efb9-1456a6053389/More_bulk_billing_fact_sheet.pdf) representing the total payments received (both individual bulk-billing incentive and universal bulk-billing incentive) for each service for those practices which agree to universally bulk-bill. The original table is shown below:
 
